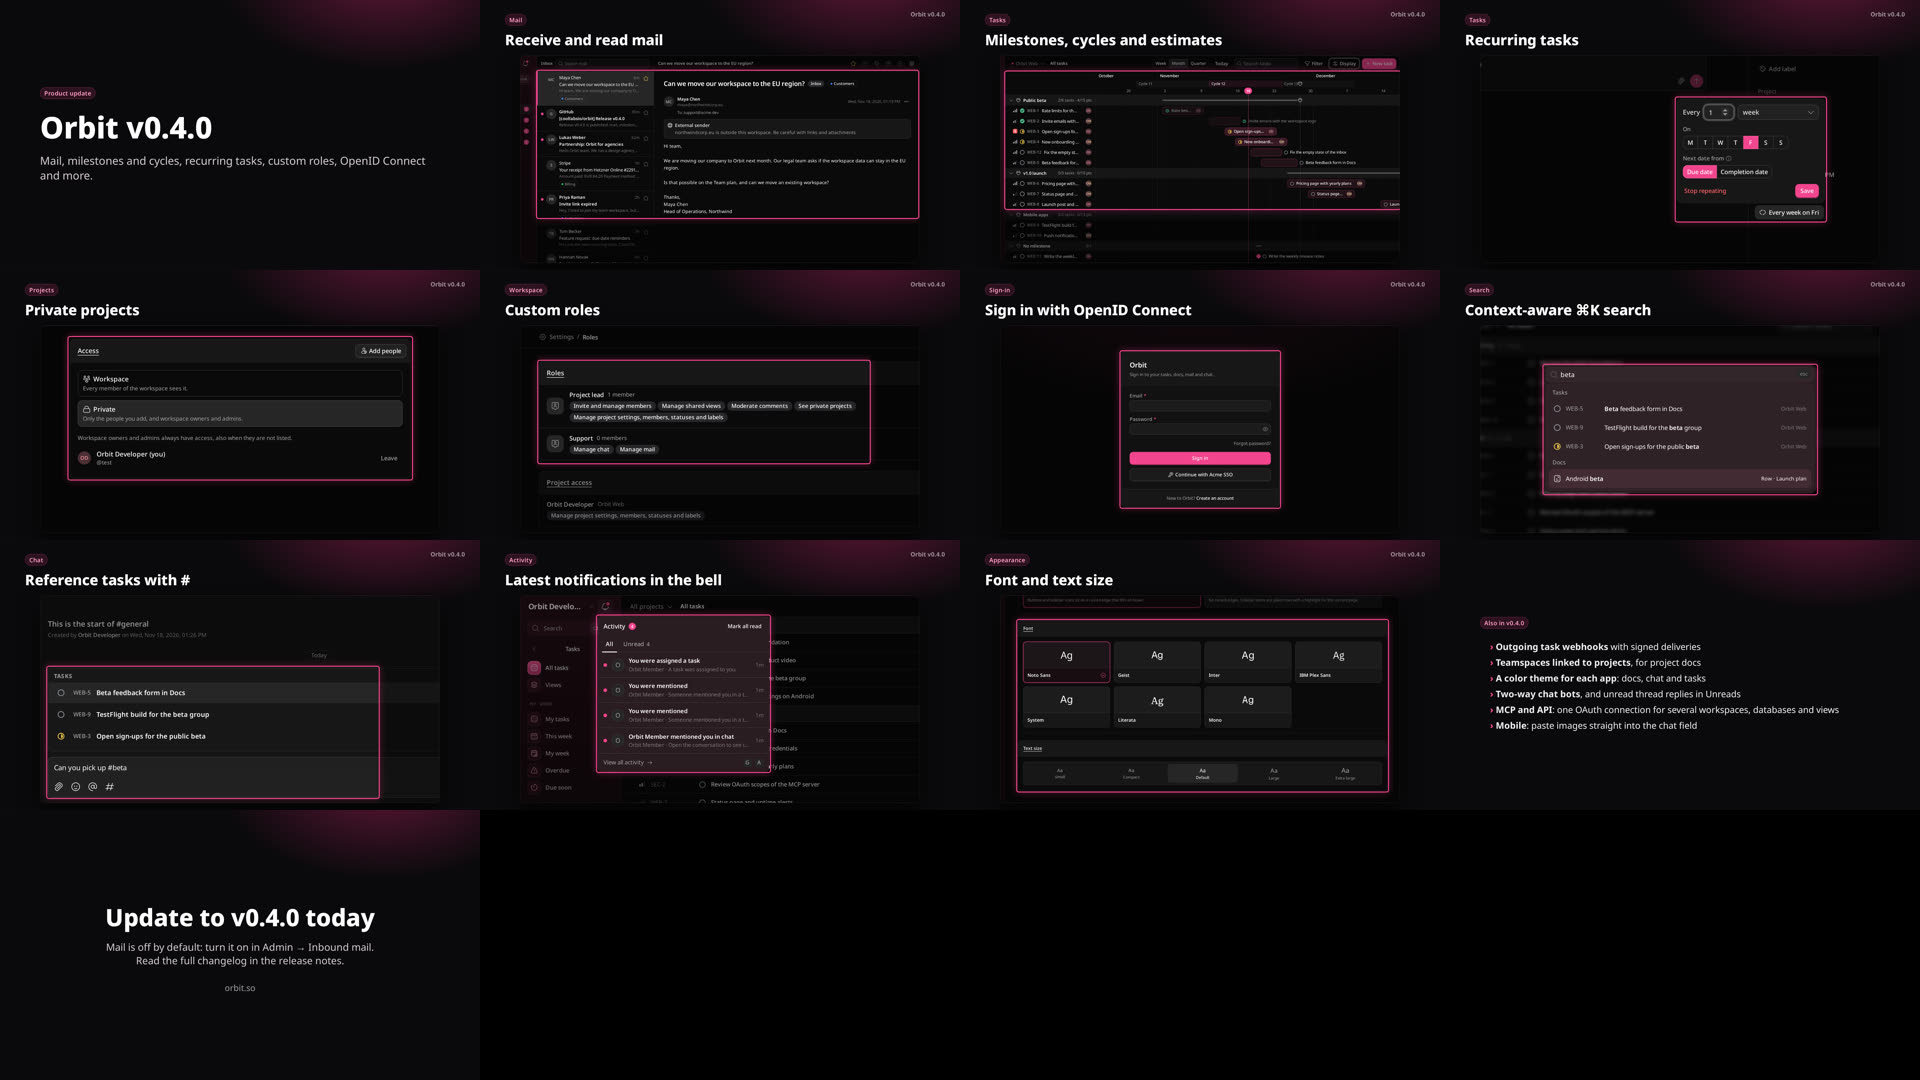
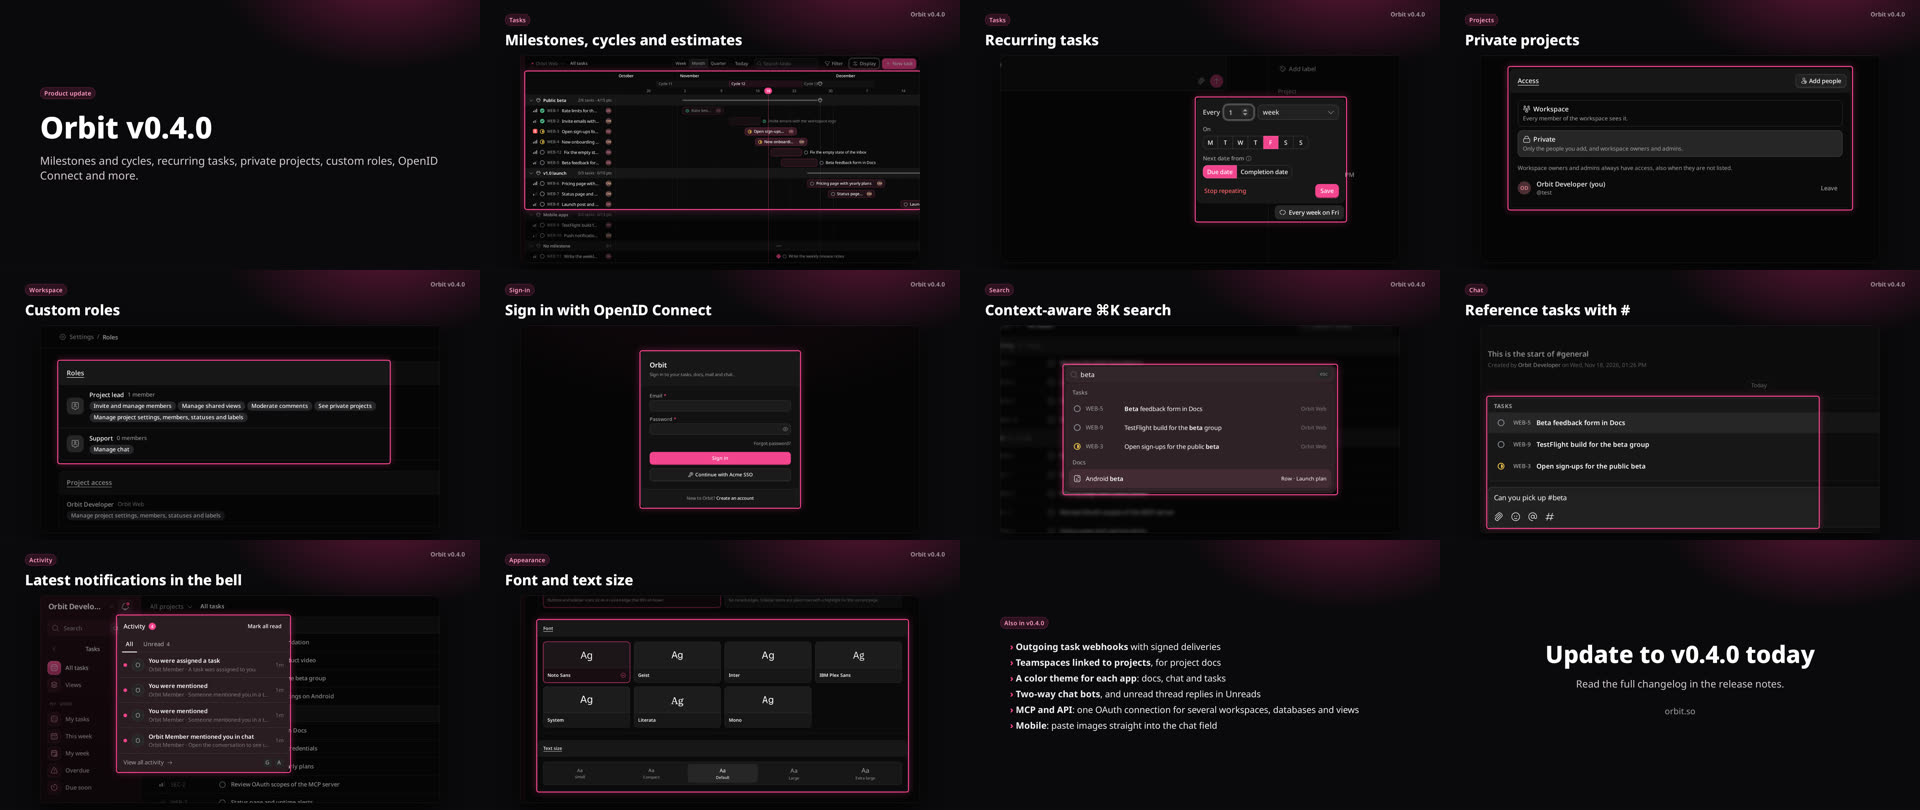
chore(marketing): remove mail from the v0.4.0 release video and notes

diff --git a/marketing/releases/v0.4.0/notes.md b/marketing/releases/v0.4.0/notes.md
@@ -1,11 +1,5 @@
 ## Highlights
 
-### Mail
-
-Orbit can now receive mail for your workspace's domains, at its own SMTP listener or through a provider (PostShiba, Cloudflare Email Routing, Postmark, Mailgun, SES, Resend). Shared and personal mailboxes, labels, stars, spam and search are in the new Mail app. Mail is off by default: the root user turns it on in **Admin → Inbound mail**, then a workspace adds its domain and mailboxes in **Settings → Mail**. Sending mail is not in this release. (#36)
-
-![Mail inbox](https://github.com/coollabsio/orbit/releases/download/<tag>/screenshot-mail.png)
-
 ### Milestones, cycles and estimates
 
 Plan a project with milestones and cycles, and give tasks estimates. The milestone timeline shows each milestone's progress in tasks and points, with the cycles on top. Tasks carried over to the next cycle stay in the cycle's progress. (#113, #129)
